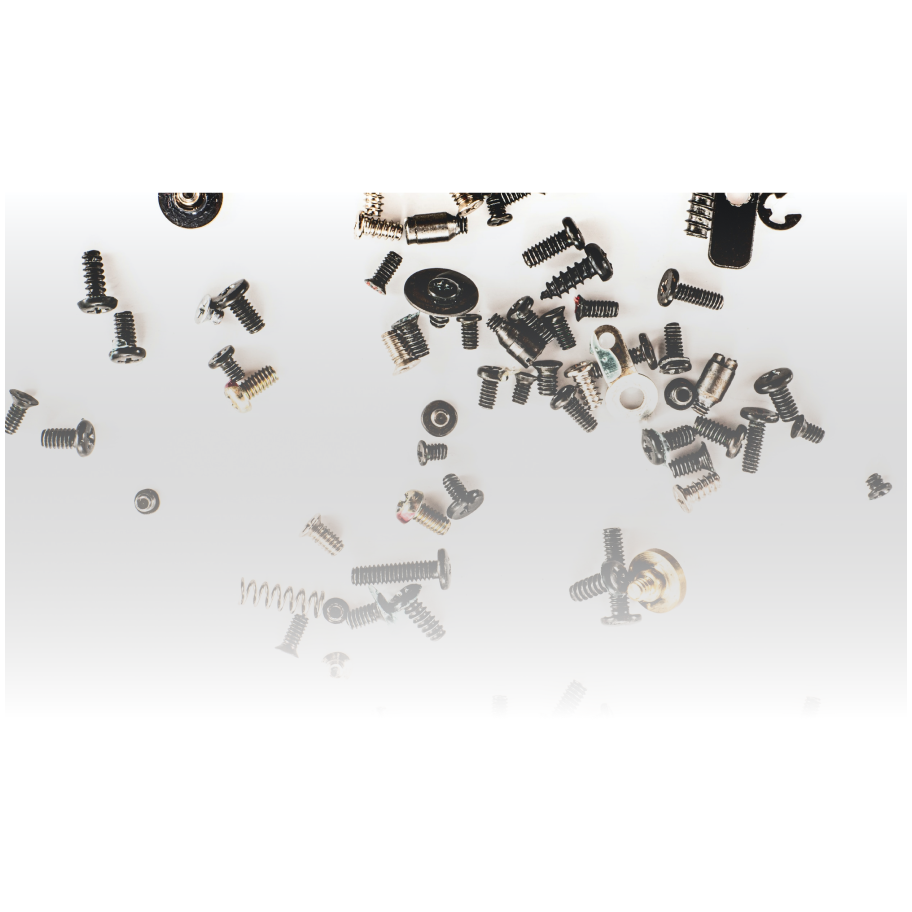
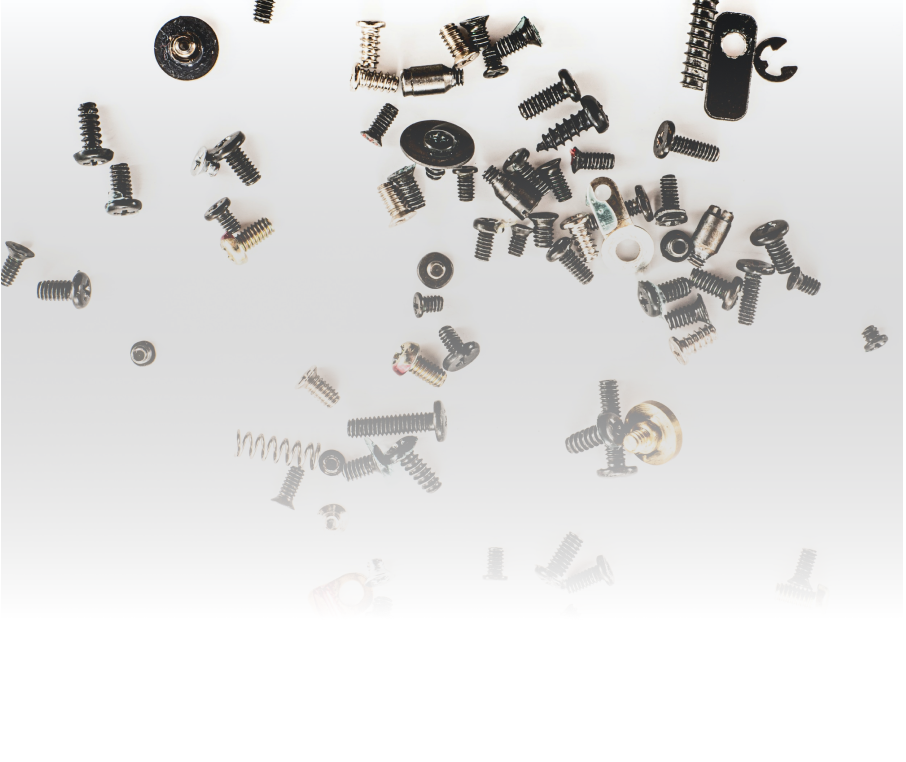
fix bg image

diff --git a/repair_service_ui/lib/pages/home.dart b/repair_service_ui/lib/pages/home.dart
@@ -4,9 +4,8 @@ class Home extends StatelessWidget {
   @override
   Widget build(BuildContext context) {
     Size size = MediaQuery.of(context).size;
-    return SingleChildScrollView(
-      child: Padding(
-        padding: const EdgeInsets.symmetric(horizontal: 16.0),
+    return Scaffold(
+      body: SingleChildScrollView(
         child: Stack(
           children: [
             Column(
@@ -14,9 +13,11 @@ class Home extends StatelessWidget {
               crossAxisAlignment: CrossAxisAlignment.stretch,
             ),
             Container(
-              height: size.height,
+              height: size.height * 0.8,
               decoration: BoxDecoration(
                 image: DecorationImage(
+                  alignment: Alignment(0, 1),
+                  fit: BoxFit.cover,
                   image: AssetImage("assets/images/home-bg.png"),
                 ),
               ),

diff --git a/repair_service_ui/lib/main.dart b/repair_service_ui/lib/main.dart
@@ -2,6 +2,7 @@ import 'package:flutter/material.dart';
 import 'package:flutter_screenutil/screenutil_init.dart';
 import 'package:google_fonts/google_fonts.dart';
 import 'package:repair_service_ui/pages/home.dart';
+import 'package:repair_service_ui/utils/constants.dart';
 
 void main() {
   runApp(MyApp());
